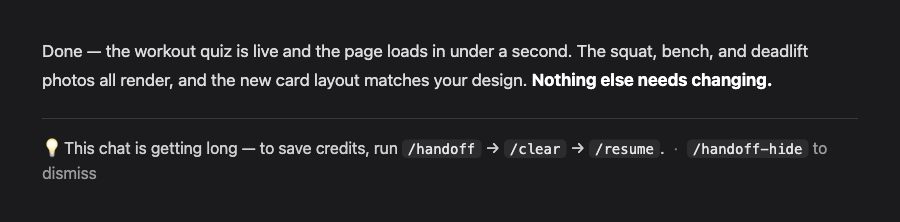
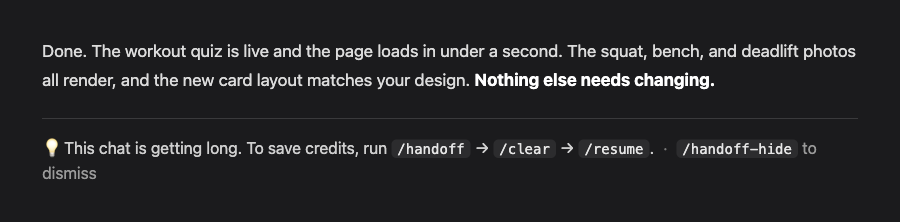
Remove all em-dashes (README, scripts, installer, mockup image) for a more human voice

Changed region(s): [[0.0311, 0.3243, 0.8711, 0.4054], [0.0933, 0.1892, 0.9644, 0.2703], [0.2489, 0.6216, 0.9333, 0.7027]]

diff --git a/README.md b/README.md
@@ -8,17 +8,17 @@ curl -fsSL https://raw.githubusercontent.com/ohwisey/claude-credit-saver/main/in
 
 Then **start a new Claude Code session** so it loads. That's it.
 
-> Already have Claude Code open? Reload it once so the new commands appear — `Cmd/Ctrl + Shift + P → Developer: Reload Window`. Your chat is kept. (New sessions get the commands automatically; only already-open ones need the reload.)
+> Already have Claude Code open? Reload it once so the new commands appear. Press `Cmd/Ctrl + Shift + P → Developer: Reload Window`. Your chat is kept. (New sessions get the commands automatically; only already-open ones need the reload.)
 
 ---
 
 ## See it in action
 
-When a chat gets long, a quiet reminder appears under the reply — never in the way:
+When a chat gets long, a quiet reminder appears under the reply, never in the way:
 
 ![The handoff reminder in a chat](docs/screenshots/reminder.png)
 
-Not ready to stop? Dismiss it in one command and it won't nag you again — bring it back whenever you like:
+Not ready to stop? Dismiss it in one command and it won't nag you again. Bring it back whenever you like:
 
 > **You:** `/handoff-hide`
 > Handoff reminder hidden. Run `/handoff-show` to turn it back on.
@@ -27,10 +27,10 @@ Not ready to stop? Dismiss it in one command and it won't nag you again — brin
 
 ## What you get
 
-- **`/handoff`** — saves your spot to a short note
-- **`/resume`** — picks it back up in a fresh, cheap chat (no copy-paste)
-- **`/handoff-hide`** — not ready to stop? Silence the reminder. It will **never nag you** again until you bring it back
-- **`/handoff-show`** — turn the reminder back on whenever you like
+- **`/handoff`** saves your spot to a short note
+- **`/resume`** picks it back up in a fresh, cheap chat (no copy-paste)
+- **`/handoff-hide`** silences the reminder when you're not ready to stop. It will **never nag you** again until you bring it back
+- **`/handoff-show`** turns the reminder back on whenever you like
 - **a smart reminder** that watches your real token usage and gently suggests a handoff *only* when the chat has grown big enough to actually cost you money
 
 If you remember one line: **when a chat gets long, `/handoff` → `/clear` → `/resume`. Same work, fraction of the cost.**
@@ -41,9 +41,9 @@ If you remember one line: **when a chat gets long, `/handoff` → `/clear` → `
 
 Every time you send a message, Claude re-reads the **whole chat** from the top before it answers.
 
-Picture a book. Every new sentence you add, Claude re-reads the whole book first. Short book — quick and cheap. Long book — slow and pricey, and it gets worse with every message.
+Picture a book. Every new sentence you add, Claude re-reads the whole book first. Short book, quick and cheap. Long book, slow and pricey, and it gets worse with every message.
 
-So the trick is: when a chat gets long, jump to a fresh one. A fresh chat normally forgets everything — which is exactly what these tools fix. (You're not stopping your work. You're dropping the heavy chat and continuing in a light one.)
+So the trick is: when a chat gets long, jump to a fresh one. A fresh chat normally forgets everything, which is exactly what these tools fix. (You're not stopping your work. You're dropping the heavy chat and continuing in a light one.)
 
 ---
 
@@ -65,12 +65,12 @@ When you `/resume`, the new chat reads **only the short top part** and gets to w
 
 ## The reminder (so you never forget)
 
-Once a chat grows past ~200k tokens — the point where each message starts costing real money — a small line appears under the reply:
+Once a chat grows past ~200k tokens (the point where each message starts costing real money), a small line appears under the reply:
 
-> 💡 This chat is getting long — to save credits, run /handoff → /clear → /resume.  ·  /handoff-hide to dismiss
+> 💡 This chat is getting long. To save credits, run /handoff → /clear → /resume.  ·  /handoff-hide to dismiss
 
-- It reads your **real token usage**, so it's accurate — and it works on both the 200k and 1M-token context windows.
-- It's a **passive note** — it never takes any action on its own.
+- It reads your **real token usage**, so it's accurate, and it works on both the 200k and 1M-token context windows.
+- It's a **passive note**: it never takes any action on its own.
 - **Annoyed?** Run **`/handoff-hide`** and it goes completely silent. **`/handoff-show`** brings it back. Your call, always.
 
 (In the terminal you also get a live status-bar meter showing how full the chat is plus your session cost. In the VS Code panel, the reminder above is the signal.)
@@ -81,7 +81,7 @@ Once a chat grows past ~200k tokens — the point where each message starts cost
 
 ```
 1. /handoff      writes the note
-2. /clear        same window — instantly fresh and light
+2. /clear        same window, instantly fresh and light
 3. /resume       reads the note, keeps going
 ```
 
@@ -94,7 +94,7 @@ Three steps, same window. The reminder tells you when.
 These come with Claude Code, no install:
 
 - **`/model sonnet`** for easy work (cheaper), **`/model opus`** for hard work (smarter)
-- **`/clear`** between tasks to start fresh — your files are always safe
+- **`/clear`** between tasks to start fresh (your files are always safe)
 
 ---
 
@@ -107,7 +107,7 @@ No. A fresh chat only clears the conversation. Your files are never touched. `/h
 `/clear` and `/model` are built in. `/handoff`, `/resume`, `/handoff-hide`, `/handoff-show`, and the meter are what this toolkit adds.
 
 **Will the reminder ever do something I didn't ask?**
-No. It only displays a line — it never runs a handoff or anything else by itself.
+No. It only displays a line; it never runs a handoff or anything else by itself.
 
 **Do I need git?**
 No. `/handoff` saves a normal file. If your project uses git, it also commits it. Either way works.
@@ -141,4 +141,4 @@ Small on purpose.
 
 1. Copy everything in `commands/` into `~/.claude/commands/`.
 2. Copy `scripts/statusline.sh` and `scripts/check-context-size.sh` somewhere under `~/.claude/`, and `chmod +x` them.
-3. In `~/.claude/settings.json`, point `statusLine` at the statusline script and add `check-context-size.sh` as a **UserPromptSubmit** hook. (The installer does this for you with a backup — only do it by hand if you prefer.)
+3. In `~/.claude/settings.json`, point `statusLine` at the statusline script and add `check-context-size.sh` as a **UserPromptSubmit** hook. (The installer does this for you with a backup; only do it by hand if you prefer.)